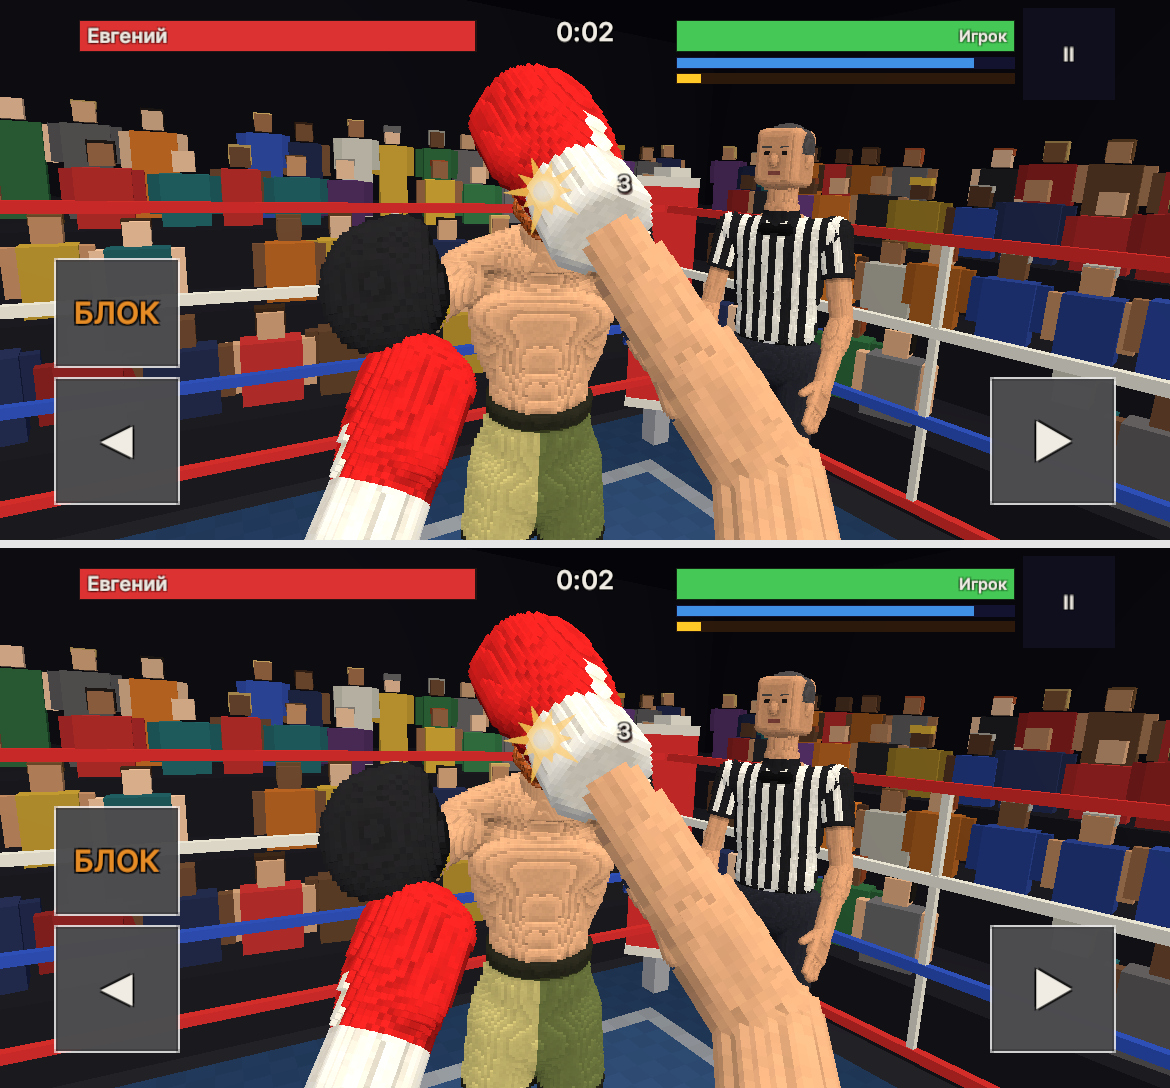
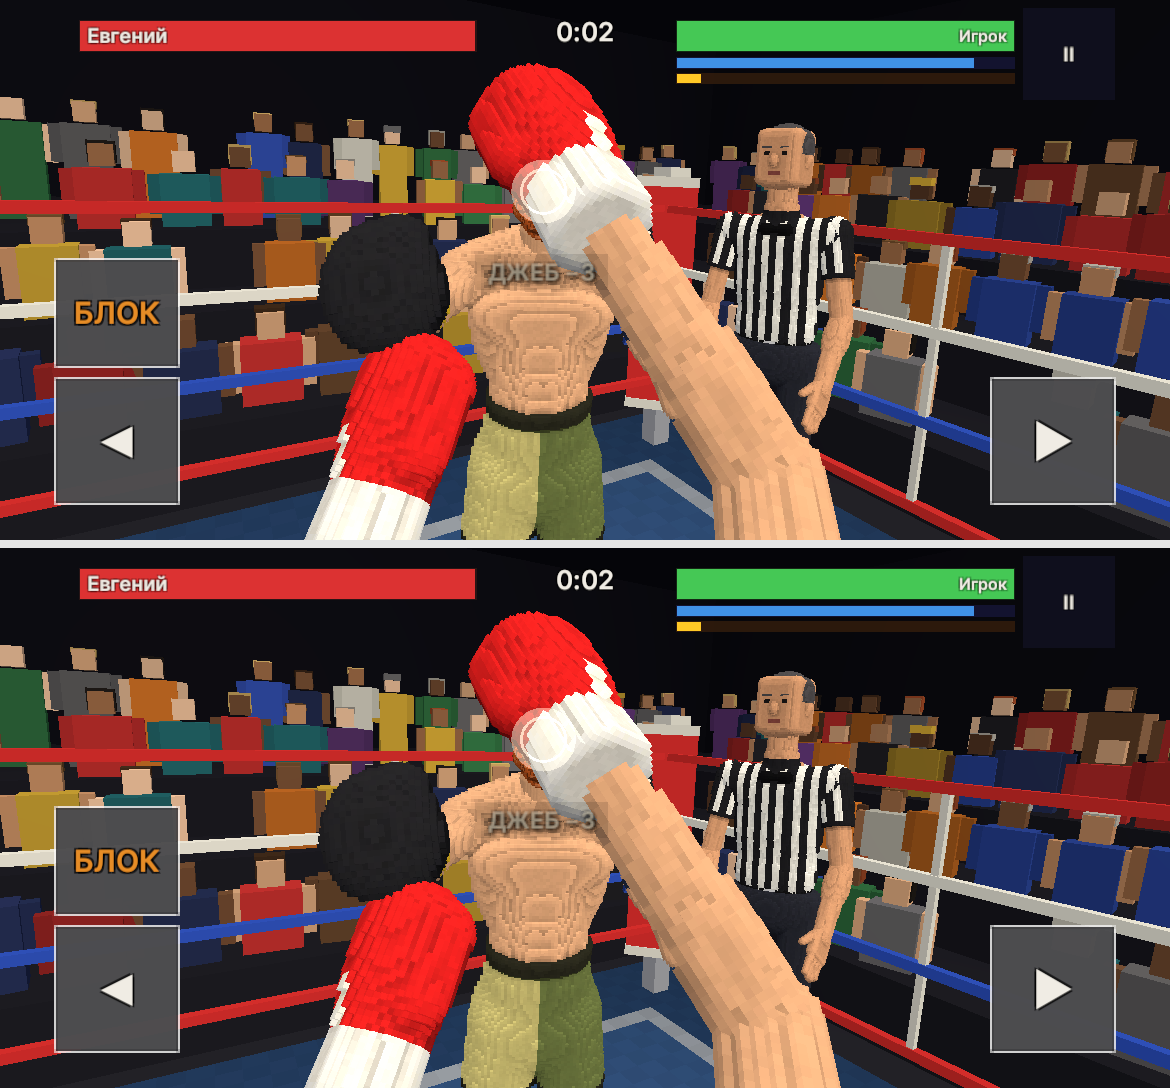
STATUS: рука игрока в портрете влита (3157fa7), цифры тестов, что не сделано; кадры forearm пересняты с эффектами удара

diff --git a/docs/STATUS.md b/docs/STATUS.md
@@ -34,6 +34,7 @@
 | B, часть 10: кровь ветвями, слои мышц на культе, огрехи переломов (та же ветка) | bdb741c (слияние) | `Unity/ANATOMY-B.md` |
 | Игра: разные лица соперников (тон кожи, причёски) | 50e2349 (слияние) | `Unity/FACES.md` |
 | Игра: эффекты удара (волны, брызги, надписи) | cdb7402 (слияние) | `Unity/HIT-FX.md` |
+| Игра: рука игрока в портрете (своё поле зрения рук, локоть за краем) | 3157fa7 (слияние) | `Unity/FOREARM.md` |
 
 Приёмка частей 1–2 (24.11): **принять с замечаниями**. Тесты анатомии 41 прошли / 0 упали / 0 пропущено. Стадии разрушения до культи проходят, лист — `Unity/Shots/anatomy-b/sheet.png`. Замечания по виду (синяк, отёк, кровь, трещины, извилины, культя) закрыты частью 5; §5 (переломы) и часть §6 не сделаны — см. приёмку.
 
@@ -74,6 +75,12 @@
 - Эффекты удара: ветка `claude/hit-fx-76f3f9` (`7795ef5`), слияние `cdb7402` (без конфликтов, `FightDirector.cs` свёлся сам). Кольца-волны, брызги, всплывающий урон, надписи ударов, метки травм, вспышка экрана по образцу веб-версии. Отчёт — `Unity/HIT-FX.md`, снимки — `Unity/Shots/hit-fx/` (пересняты после слияния: соперник уже с лицом из ветки лиц).
 - Тесты (пакетно в worktree, после каждого слияния): после лиц `VoxGame.Tests` 223 / 0 / 0, `VoxProbe.Tests.Anatomy` 65 / 0 / 0; после эффектов `VoxGame.Tests` 227 / 0 / 0, `VoxProbe.Tests.Anatomy` 65 / 0 / 0. Seed 77 прежний оба раза — 78 ударов, 147 880 / 149 586 / 157 850 / 156 238 / 51 928, куски 75 212. Лист лиц после слияния побитно совпал с листом ветки.
 - Не сделано (лица): объём волос ограничен решёткой головы; нет капы и метки «кость наружу». Замечания приёмки (эффекты): кровь летит в верх экрана, у точки удара её мало; плашка удара бледная и перекрывается перчаткой.
+
+### Unity: рука игрока в портрете (влита в `main` коммитом `3157fa7`, 26.11.2026)
+
+- Ветка `claude/forearm-aac951` (`9eb8cd3`), слияние без конфликтов. У рук игрока в портрете своё поле зрения (узел `playerArms` с масштабом), локоть в ударе уводится за боковой край, перчатка крупнее. Отчёт — `Unity/FOREARM.md`, снимки — `Unity/Shots/forearm/` (пересняты после слияния, уже с эффектами удара: кольцо и плашка «ДЖЕБ» стоят на перчатке в точке удара, не смещены).
+- Тесты на коммите слияния (пакетно в worktree): `VoxGame.Tests` 230 / 0 / 0 (с `ForearmTests.PortraitElbowOffScreen`), `VoxProbe.Tests.Anatomy` 65 / 0 / 0 (с графикой); seed 77 прежний — 78 ударов, 147 880 / 149 586 / 157 850 / 156 238 / 51 928, куски 75 212.
+- Не сделано: в джебе к камере обращена белая манжета; у апперкота левой локоть у самого края кадра; мега-удар и победа не сняты; рука в ударе входит сбоку, а не снизу.
 
 ### Веб-прототип
 
